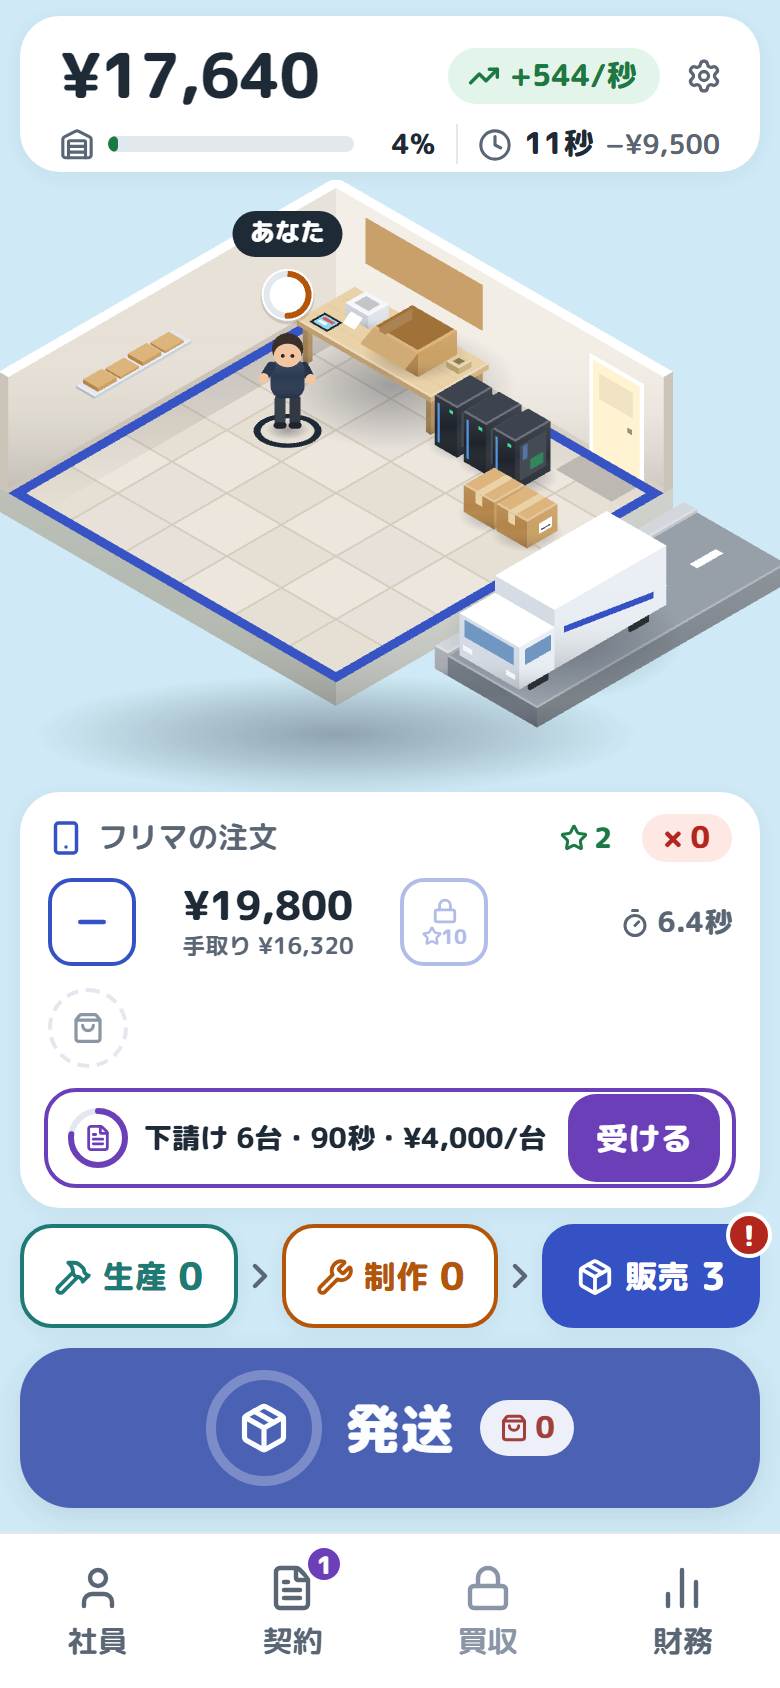
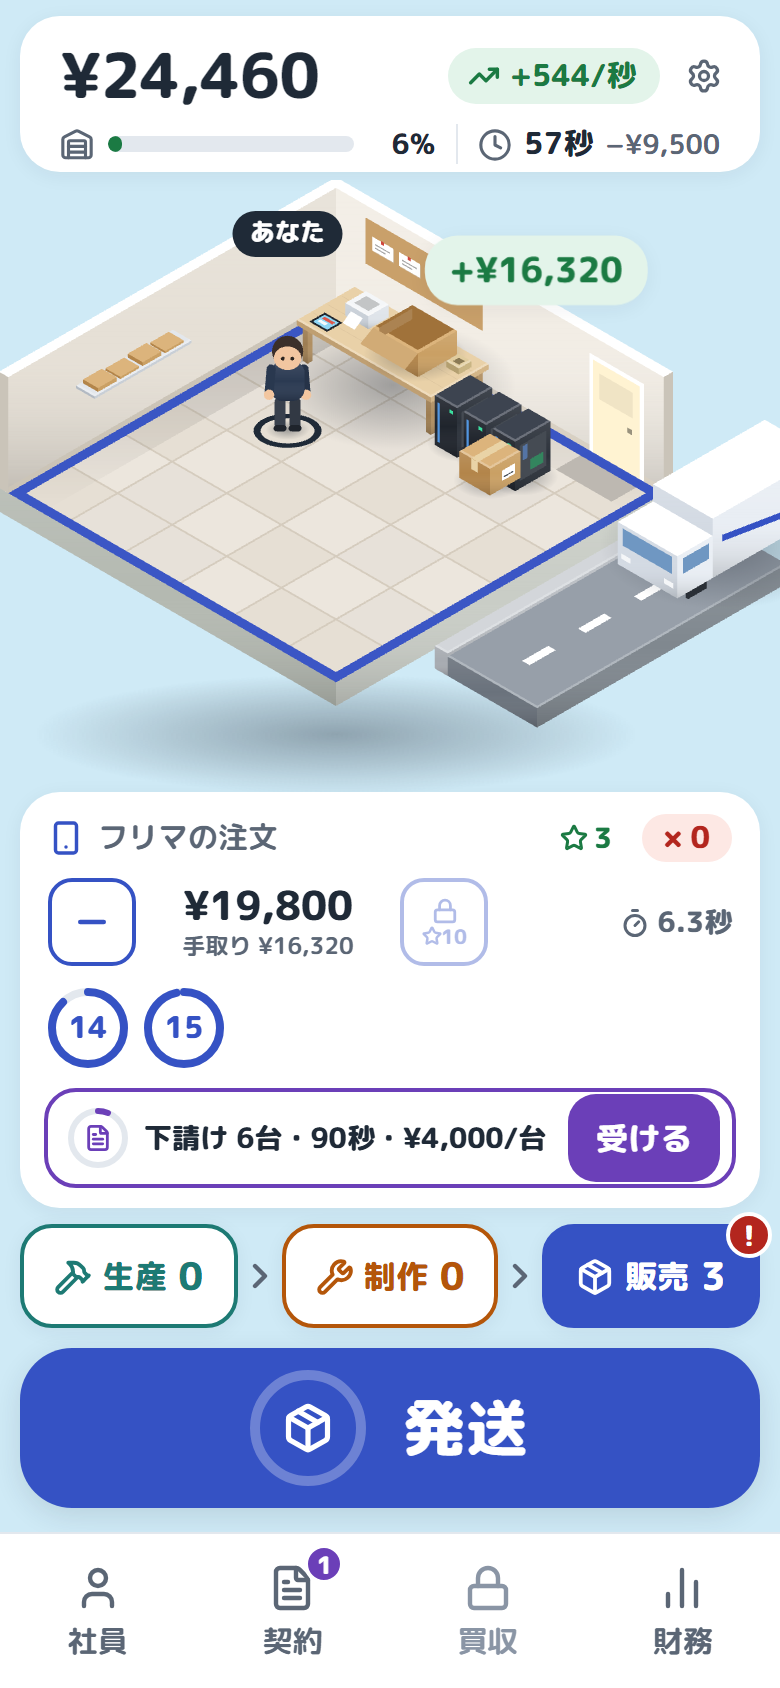
スクリーンショット：販売の画面を注文が並んだ場面で撮る

diff --git a/e2e/screens.spec.ts b/e2e/screens.spec.ts
@@ -18,6 +18,21 @@ async function shot(page: Page, name: string, wait = 420): Promise<void> {
 /** 「+¥」や飛ぶ部品が落ち着くまで */
 const SETTLE = 1500;
 
+interface ShipLike {
+  pcs: number;
+  orders: unknown[];
+  player: { task: unknown };
+}
+
+/** 注文が count 件並び、自分の手が空くまで時間を進める（最大 maxSeconds 秒） */
+async function waitOrders(page: Page, count: number, maxSeconds = 30): Promise<void> {
+  for (let t = 0; t < maxSeconds; t += 0.5) {
+    const s = await debug<ShipLike>(page, 'state()');
+    if (s.orders.length >= count && s.pcs >= 1 && s.player.task === null) return;
+    await debug(page, 'step(0.5)');
+  }
+}
+
 test.describe.configure({ mode: 'serial' });
 
 test('生産・制作・販売（開始45秒ごろ）', async ({ page }) => {
@@ -36,14 +51,11 @@ test('生産・制作・販売（開始45秒ごろ）', async ({ page }) => {
   await debug(page, 'step(1.6)');
   await shot(page, '02_assembly', SETTLE);
 
-  // 販売：注文・下請けの依頼。売れた瞬間の「+¥」
+  // 販売：注文が並んだところで1件発送し、売れた瞬間の「+¥」を撮る
   await page.getByTestId('switch-ship').click();
-  await debug(page, 'step(0.4)');
-  const s = await debug<{ pcs: number; orders: unknown[] }>(page, 'state()');
-  if (s.pcs > 0 && s.orders.length > 0) {
-    await page.getByTestId('work').click();
-    await debug(page, 'step(1.5)');
-  }
+  await waitOrders(page, 2);
+  await page.getByTestId('work').click();
+  await debug(page, 'step(1.6)');
   await shot(page, '03_sales');
 });
 
@@ -72,6 +84,7 @@ test('夜の販売と生産', async ({ page }) => {
   await debug(page, "setTheme('night')");
   await debug(page, 'runBot(150, { hire: true })');
   await debug(page, "setScreen('ship')");
+  await waitOrders(page, 2);
   await shot(page, '06_sales_night', SETTLE);
   await debug(page, "setScreen('dis')");
   await shot(page, '07_production_night', SETTLE);
